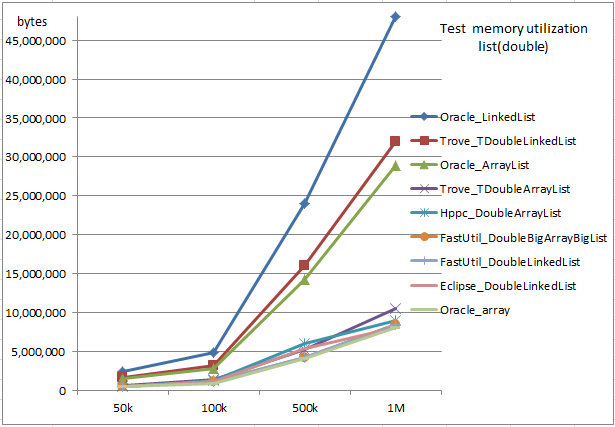
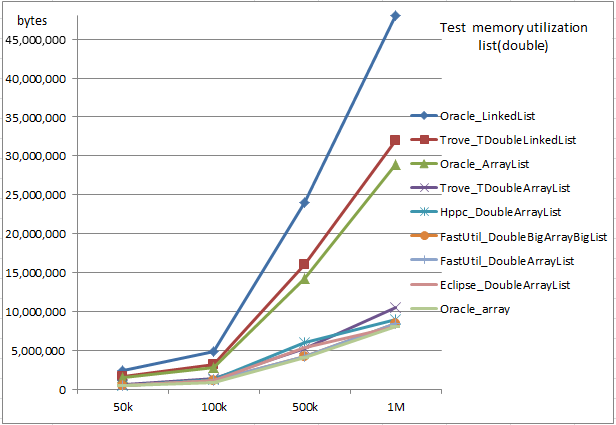
fixups

diff --git a/src/main/java/primitive/list/TestSizeDoubleList.java b/src/main/java/primitive/list/TestSizeDoubleList.java
@@ -70,7 +70,7 @@ public class TestSizeDoubleList extends TestSize {
     }
 
     @Size
-    public Object Eclipse_DoubleLinkedList() {
+    public Object Eclipse_DoubleArrayList() {
         org.eclipse.collections.impl.list.mutable.primitive.DoubleArrayList list = new org.eclipse.collections.impl.list.mutable.primitive.DoubleArrayList();
         for(int i = 0; i < size; i++) {
             double v = i/0.333;
@@ -80,7 +80,7 @@ public class TestSizeDoubleList extends TestSize {
     }
 
     @Size
-    public Object FastUtil_DoubleLinkedList() {
+    public Object FastUtil_DoubleArrayList() {
         it.unimi.dsi.fastutil.doubles.DoubleArrayList list = new it.unimi.dsi.fastutil.doubles.DoubleArrayList();
         for(int i = 0; i < size; i++) {
             double v = i/0.333;
